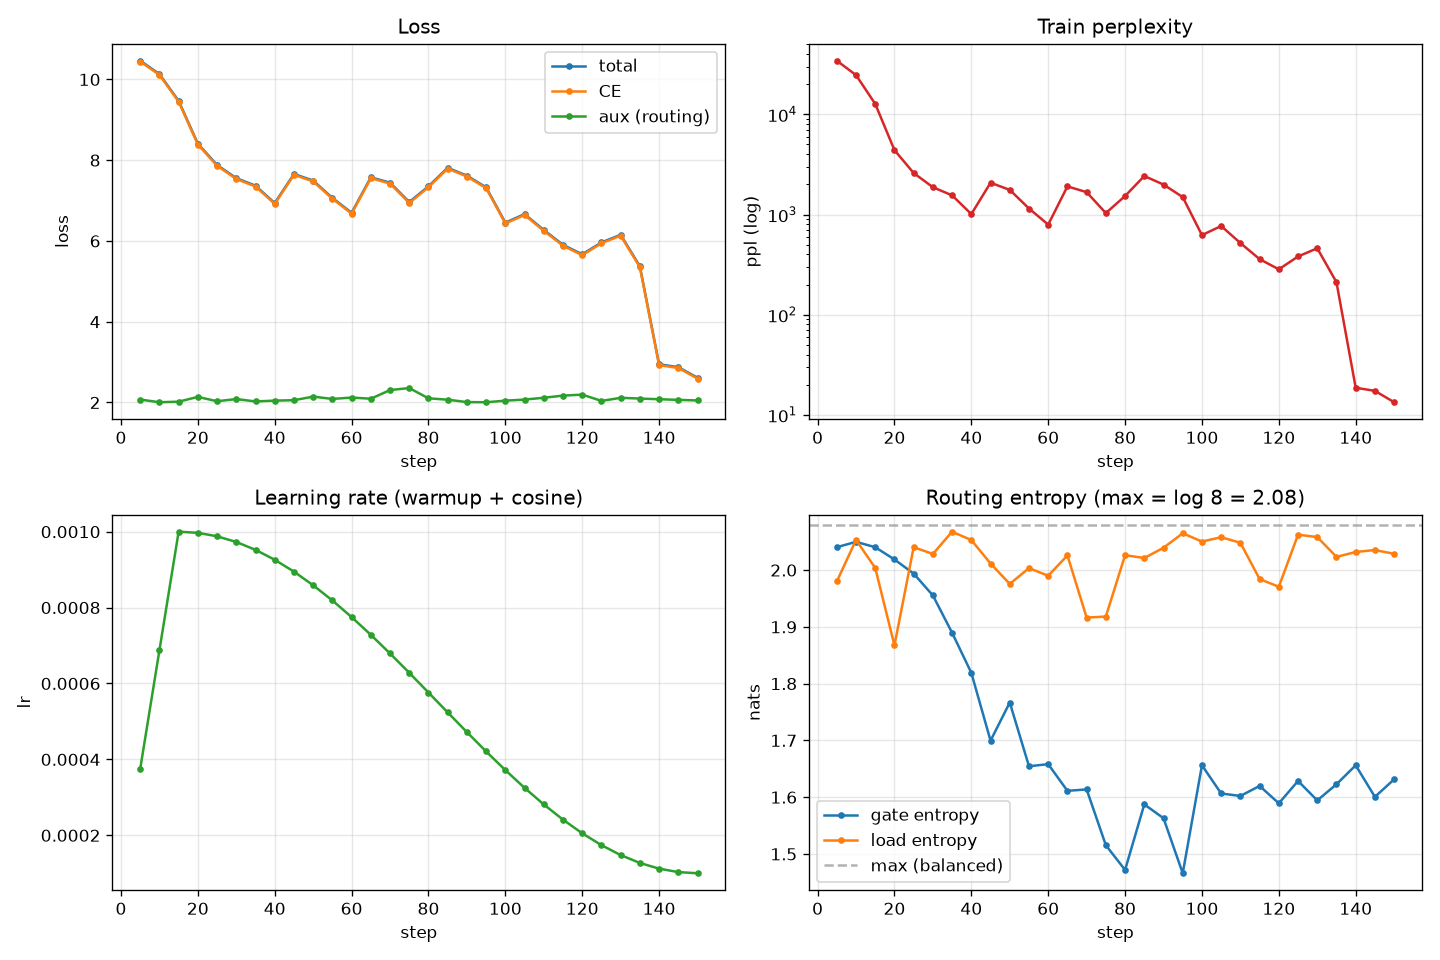
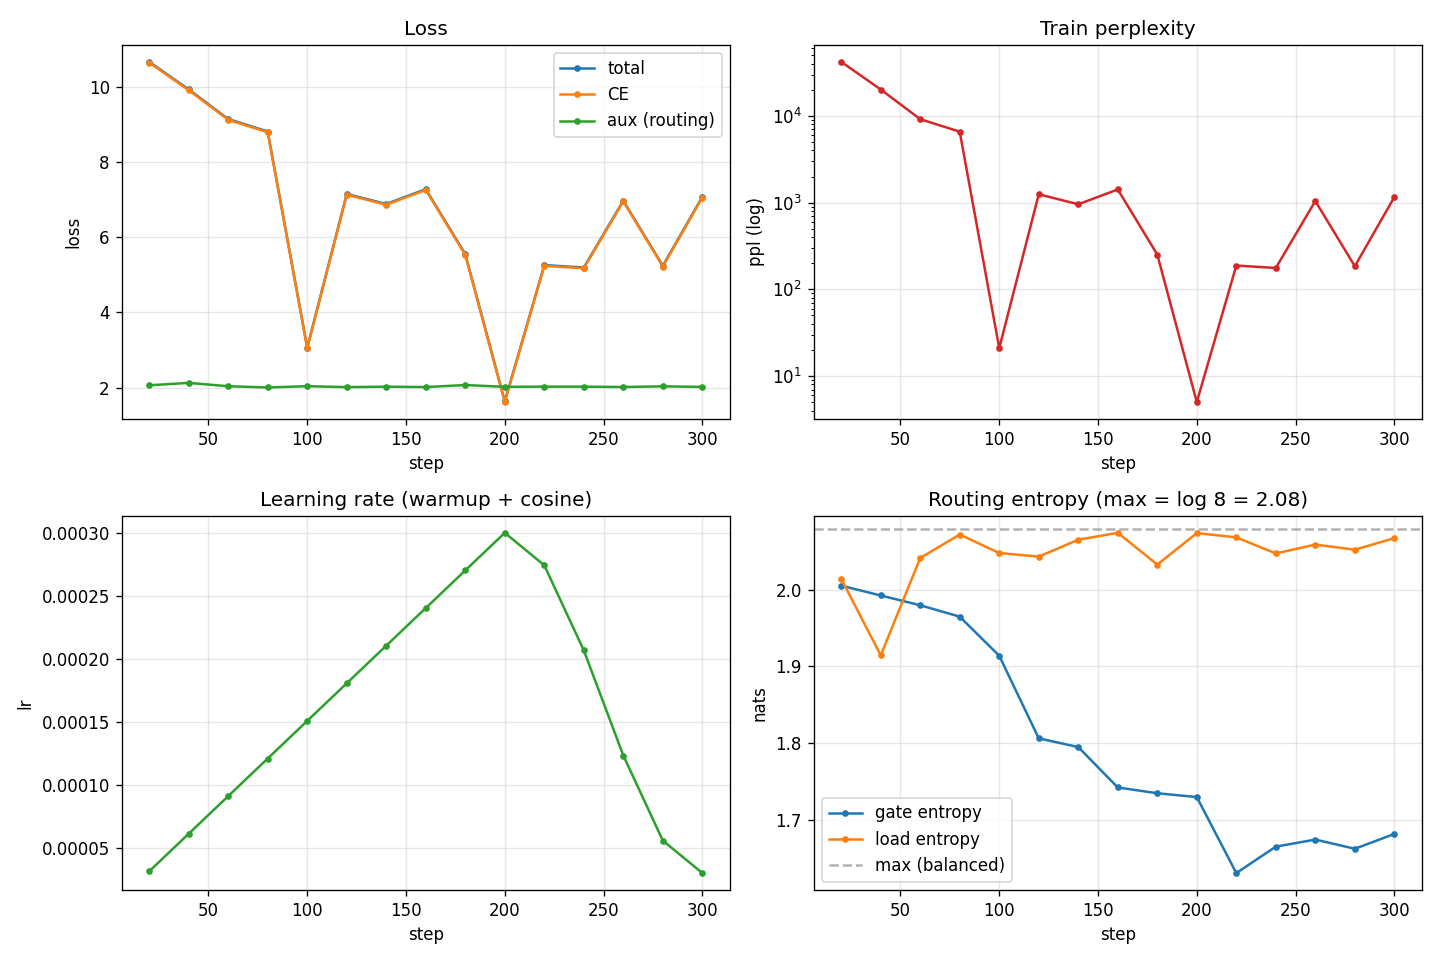
Add GPU run results: real-data training log, figures, ablation tables
- results/real_run_metrics_300steps.jsonl — 172M model on real data (T4, bf16, 300 steps)
- results/tensorboard/ — TB events for the run
- report/figures/ — training curves, expert load, ablation matrix + comparison plot
- results/README.md — provenance + honest caveats (300 steps; ablations on ~15M synthetic)

Model checkpoint (~329MB) kept out of git (100MB limit); see results/README.md.

diff --git a/results/README.md b/results/README.md
@@ -1,0 +1,28 @@
+# Experiment results
+
+Artifacts from GPU (Colab T4) runs. Large checkpoints are **not** committed here (GitHub's
+100 MB/file limit); see "Model checkpoint" below.
+
+## Contents
+- `real_run_metrics_300steps.jsonl` — training log of the full 172M model on **real data**
+  (C4 / CodeParrot / GSM8K / LogiQA mixture), bf16, T4. **300-step run** (short; the model is
+  undertrained — a longer run improves absolute numbers).
+- `tensorboard/` — TensorBoard event file for the same run.
+- `../report/figures/`:
+  - `training_curves.png`, `expert_load.png` — training + routing curves.
+  - `ablation_results.{json,md}`, `ablation_comparison.png` — ablation matrix
+    (6 variants). **Note:** ablations use a compact ~15M model on a synthetic mixture — they
+    demonstrate *trends* (top-1 vs top-2, load-balance on/off, RoPE vs learnable), not
+    absolute numbers of the 172M model.
+
+## Model checkpoint
+The trained 172M model (`model.safetensors`, ~329 MB) is not stored in git. To obtain it:
+- re-run `notebooks/colab_train.ipynb` (produces `checkpoints/small-moe-baseline/final/hf/`), or
+- attach it to a GitHub Release / Git LFS (see README).
+
+## Reproduce
+```bash
+python scripts/train.py    --config configs/train_small.yaml   # train
+python scripts/evaluate.py --config configs/train_small.yaml \
+    --checkpoint checkpoints/small-moe-baseline/final           # eval
+```

diff --git a/report/figures/ablation_results.md b/report/figures/ablation_results.md
@@ -2,9 +2,9 @@
 
 | variant | CE | ppl | load_balance | specialization | params(M) |
 |---|---|---|---|---|---|
-| baseline (top2, 8E, swiglu, rope) | 1.151 | 3.2 | 0.993 | 0.276 | 15.43 |
-| top1_gating | 1.110 | 3.0 | 0.963 | 0.532 | 15.43 |
-| 16_experts | 1.078 | 2.9 | 0.974 | 0.490 | 17.80 |
-| gelu_expert | 1.081 | 2.9 | 0.991 | 0.349 | 15.43 |
-| learnable_pe | 1.080 | 2.9 | 0.989 | 0.273 | 15.44 |
-| no_load_balance | 1.106 | 3.0 | 0.950 | 0.538 | 15.43 |
+| baseline (top2, 8E, swiglu, rope) | 1.109 | 3.0 | 0.988 | 0.253 | 15.43 |
+| top1_gating | 1.145 | 3.1 | 0.944 | 0.450 | 15.43 |
+| 16_experts | 1.076 | 2.9 | 0.975 | 0.462 | 17.80 |
+| gelu_expert | 1.063 | 2.9 | 0.993 | 0.222 | 15.43 |
+| learnable_pe | 1.187 | 3.3 | 0.984 | 0.351 | 15.44 |
+| no_load_balance | 1.078 | 2.9 | 0.935 | 0.504 | 15.43 |